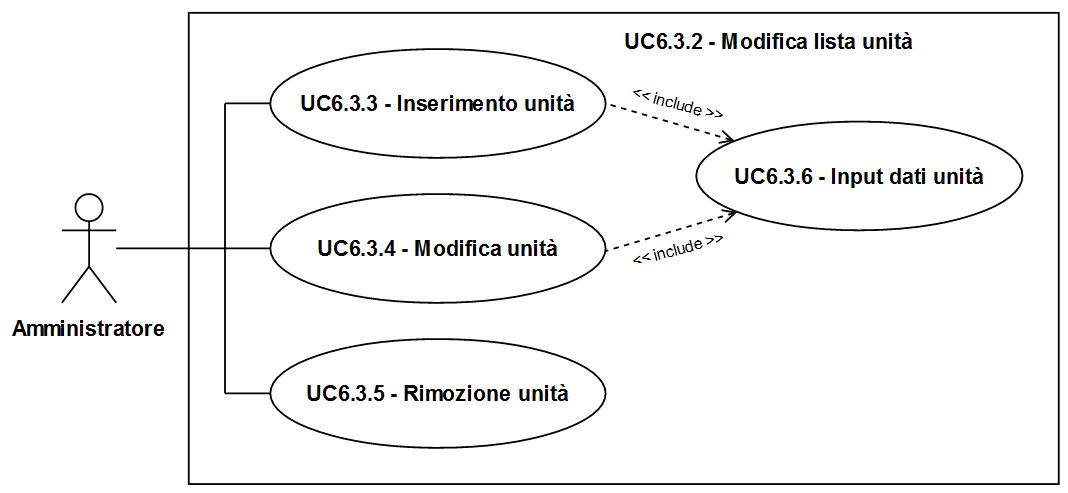
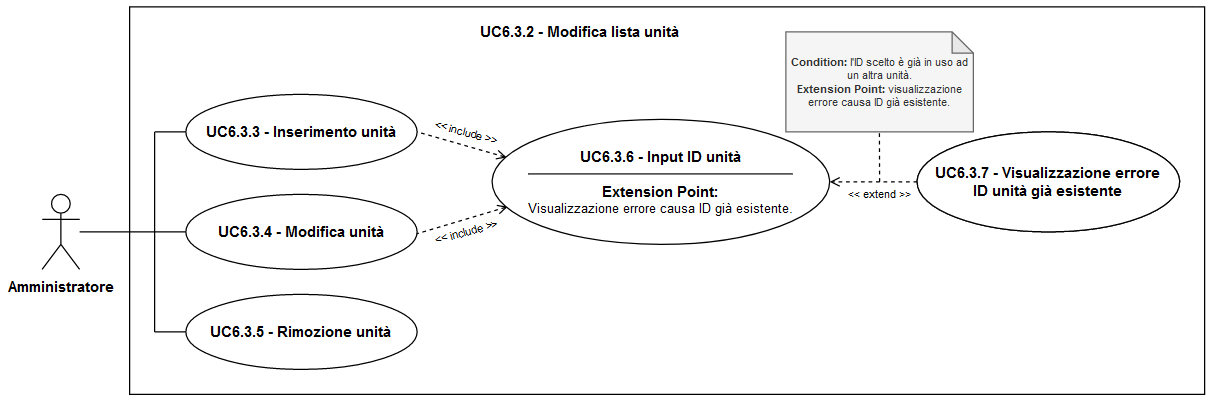
Corretti typos

diff --git a/esterni/analisi_dei_requisiti/res/casi_duso/uc6_amministrazione.tex b/esterni/analisi_dei_requisiti/res/casi_duso/uc6_amministrazione.tex
@@ -249,7 +249,7 @@
 \subsubsection{UC6.3.2 - Modifica lista unità}
 	\begin{figure}[H]
 		\centering
-		\includegraphics[width=16cm]{images/UC6.3.2.png}
+		\includegraphics[width=17cm]{images/UC6.3.2.png}
 		\caption{Diagramma UC6.3.2 - Modifica lista unità}
 	\end{figure}
 	\begin{itemize}
@@ -274,7 +274,7 @@
 		\item \textbf{Postcondizione:} la lista delle unità risulta aggiornata con l'aggiunta dell'unità interessata.
 		\item \textbf{Inclusione:} 
 		\begin{itemize}
-			\item \textbf{UC6.3.6:} viene eseguito l'input dei dati dell'unità.
+			\item \textbf{UC6.3.6:} viene eseguito l'input dell'ID dell'unità.
 		\end{itemize}
 	\end{itemize}
 
@@ -287,7 +287,7 @@
 		\item \textbf{Postcondizione:} le proprietà dell'unità interessata risultano aggiornate come voluto.
 		\item \textbf{Inclusione:} 
 		\begin{itemize}
-			\item \textbf{UC6.3.6:} viene eseguito l'input dei dati dell'unità.
+			\item \textbf{UC6.3.6:} viene eseguito l'input dell'ID dell'unità.
 		\end{itemize}
 	\end{itemize}
 
@@ -300,41 +300,24 @@
 		\item \textbf{Postcondizione:} la lista delle unità risulta aggiornata con la rimozione dell'unità interessata.
 	\end{itemize}
 
-\subsubsection{UC6.3.6 - Input dati unità}
-	\begin{figure}[H]
-		\centering
-		\includegraphics[width=16cm]{images/UC6.3.6.png}
-		\caption{Diagramma UC6.3.6 - Input dati unità}
-	\end{figure}
-	\begin{itemize}
-		\item \textbf{Attori primari:} utente amministratore;
-		\item \textbf{Descrizione:} l'amministratore inserisce i dati dell'unità interessata;
-		\item \textbf{Scenario principale:} 
-			\begin{itemize}
-				\item l'amministratore esegue l'input dell'ID dell'unità (UC6.3.7).
-			\end{itemize}
-		\item \textbf{Precondizione:} l'amministratore sta inserendo i dati dell'unità interessata;
-		\item \textbf{Postcondizione:} i dati dell'unità risultano inseriti nel sistema.
-	\end{itemize}
-
-\subsubsection{UC6.3.7 - Input ID unità}
+\subsubsection{UC6.3.6 - Input ID unità}
 	\begin{itemize}
 		\item \textbf{Attori primari:} utente amministratore;
 		\item \textbf{Descrizione:} l'amministratore inserisce l'ID da assegnare all'unità interessata;
 		\item \textbf{Scenario principale:} l'amministratore esegue l'input dell'ID unità;
-		\item \textbf{Precondizione:} l'amministratore sta compilando i dati dell'unità interessata;
+		\item \textbf{Precondizione:} l'amministratore sta inserendo i dati dell'unità interessata;
 		\item \textbf{Postcondizione:} l'ID dell'unità risulta inserito.
 		\item \textbf{Estensione:}
 		\begin{itemize}
-			\item \textbf{UC6.3.8:} se si tenta di usare l'ID di un'unità già esistente, viene visualizzato un apposito messaggio di errore.
+			\item \textbf{UC6.3.7:} se si tenta di usare l'ID di un'unità già esistente, viene visualizzato un apposito messaggio di errore.
 		\end{itemize}
 	\end{itemize}
 
-\subsubsection{UC6.3.8 - Visualizzazione errore causa ID unità già esistente}
+\subsubsection{UC6.3.7 - Visualizzazione errore causa ID unità già esistente}
 	\begin{itemize}
 		\item \textbf{Attori primari:} utente amministratore;
 		\item \textbf{Descrizione:} l'amministratore visualizza un errore, relativo al fatto che l'ID che si è cercato di usare è già assegnato ad un'unità esistente;
 		\item \textbf{Scenario principale:} l'amministratore tenta di inserire un ID non valido in quanto assegnato ad un'altra unità, ed il sistema risponde con un apposito errore;
-		\item \textbf{Precondizione:} l'ID scelto è già in uso ad un altra unità;
+		\item \textbf{Precondizione:} l'ID scelto è già in uso ad un'altra unità;
 		\item \textbf{Postcondizione:} viene visualizzato un errore per informare l'utente che è necessario scegliere un altro ID per l'unità.
 	\end{itemize}
